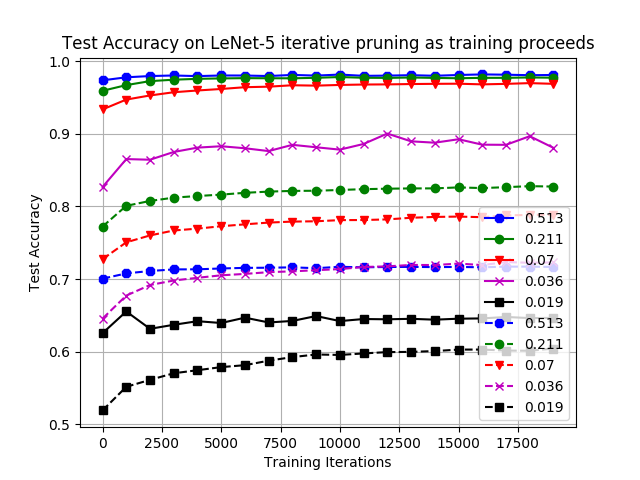
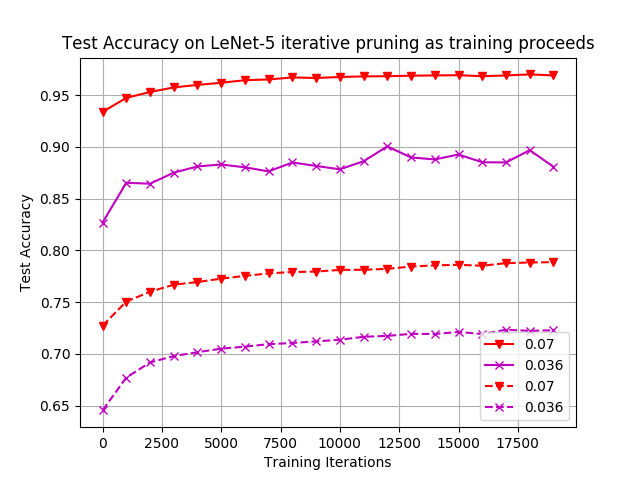
small test

diff --git a/src/plots.py b/src/plots.py
@@ -41,11 +41,11 @@ def plot_lenet_mnist():
         #s = np.around(s - s*c, decimals=3)
         #percentages[i] = s
 
-    for i in range(0, iterations):
+    for i in range(2, iterations-1):
         plt.plot(range(0,len(histories[i,:])*1000,1000), histories[i,:], label=percentages[i], marker=markers[i], color=colors[i])
     
 
-    for i in range(0, iterations):
+    for i in range(2, iterations-1):
         plt.plot(range(0,len(histories_reinit[i,:])*1000,1000), histories_reinit[i,:], label=percentages[i], marker=markers[i], color=colors[i], linestyle='--')
     #plt.plot(range(0,len(histories_reinit[0,:])*1000,1000), histories_reinit[0,:], 
     #label=str(percentages[0]) + "(reinit)", color=colors[0], marker='8', linestyle='--')
